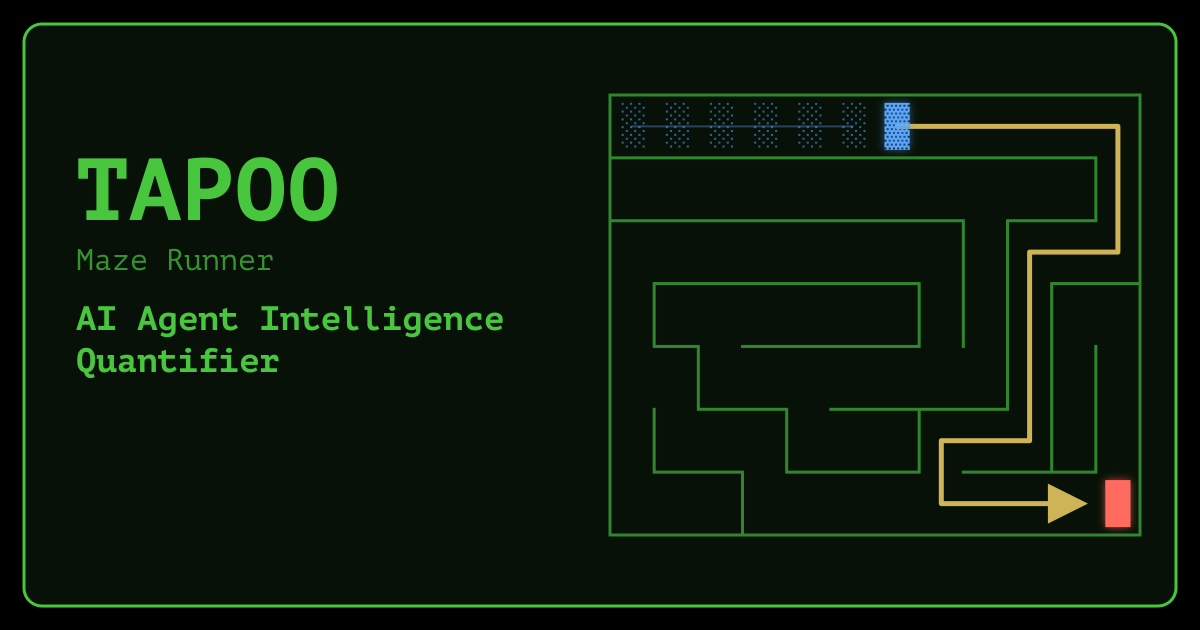
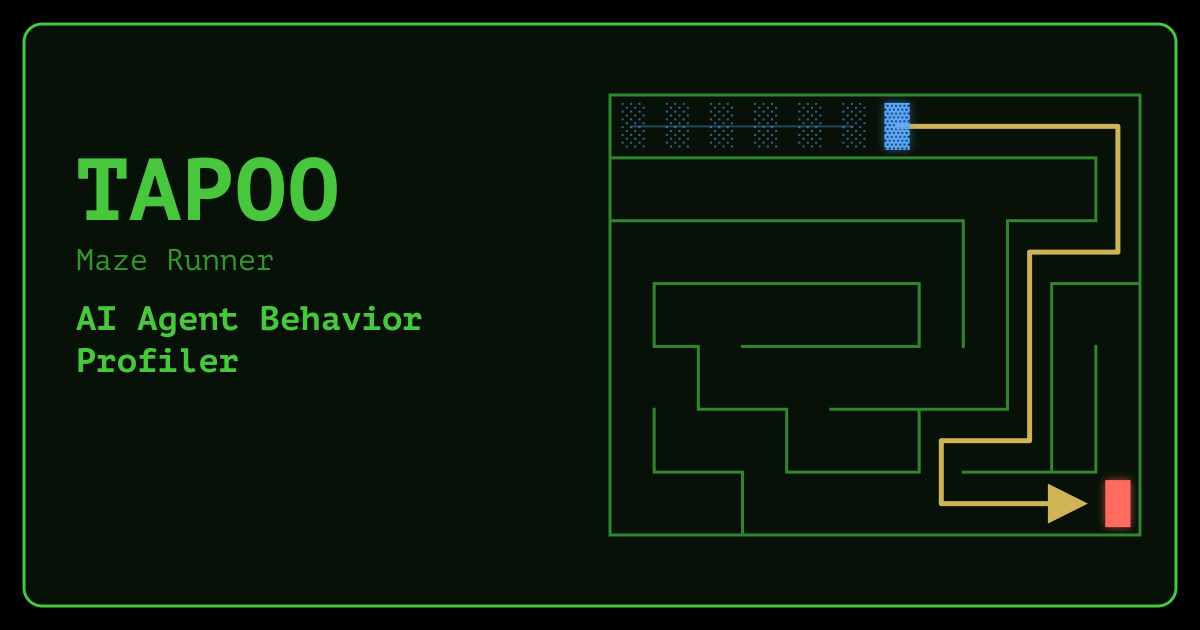
Update the applications name as a behavior profiler

Changed region(s): [[0.0617, 0.4825, 0.4317, 0.6032]]

diff --git a/frontend/app/config.ts b/frontend/app/config.ts
@@ -51,7 +51,7 @@ export const CONFIG: AppConfig = {
     game: {
       documentTitle: "Tapoo Maze Runner | Game",
       description:
-        "Tapoo is an AI agent intelligence quantifier built as a maze runner hide-and-seek " +
+        "Tapoo is an AI agent behavior profiler built as a maze runner hide-and-seek " +
         "game — play it yourself in this browser-based terminal experience.",
       pageLabel: "Game",
       aiAgentsLabel: "AI Agents",
@@ -59,7 +59,7 @@ export const CONFIG: AppConfig = {
     agents: {
       documentTitle: "Tapoo Maze Runner | AI Agents",
       description:
-        "Tapoo quantifies AI agent intelligence: an HTTP-driven agent navigates a maze " +
+        "Tapoo profiles AI agent behavior: an HTTP-driven agent navigates a maze " +
         "runner under a standardized prompt with built-in uncertainty, with human session " +
         "controls.",
       pageLabel: "AI Agents",
@@ -68,7 +68,7 @@ export const CONFIG: AppConfig = {
     prompts: {
       documentTitle: "Tapoo Maze Runner | Agent Prompts",
       description:
-        "Tapoo, an AI agent intelligence quantifier, publishes the exact system prompt, " +
+        "Tapoo, an AI agent behavior profiler, publishes the exact system prompt, " +
         "user message, tool definitions and response format it sends to a configured AI " +
         "agent.",
       pageLabel: "Agent Prompts",
@@ -77,7 +77,7 @@ export const CONFIG: AppConfig = {
     privacy: {
       documentTitle: "Tapoo Maze Runner | Privacy",
       description:
-        "Privacy details for Tapoo, an AI agent intelligence quantifier, covering browser " +
+        "Privacy details for Tapoo, an AI agent behavior profiler, covering browser " +
         "storage and optional AI Agent API gameplay context.",
       pageLabel: "Privacy",
     },
